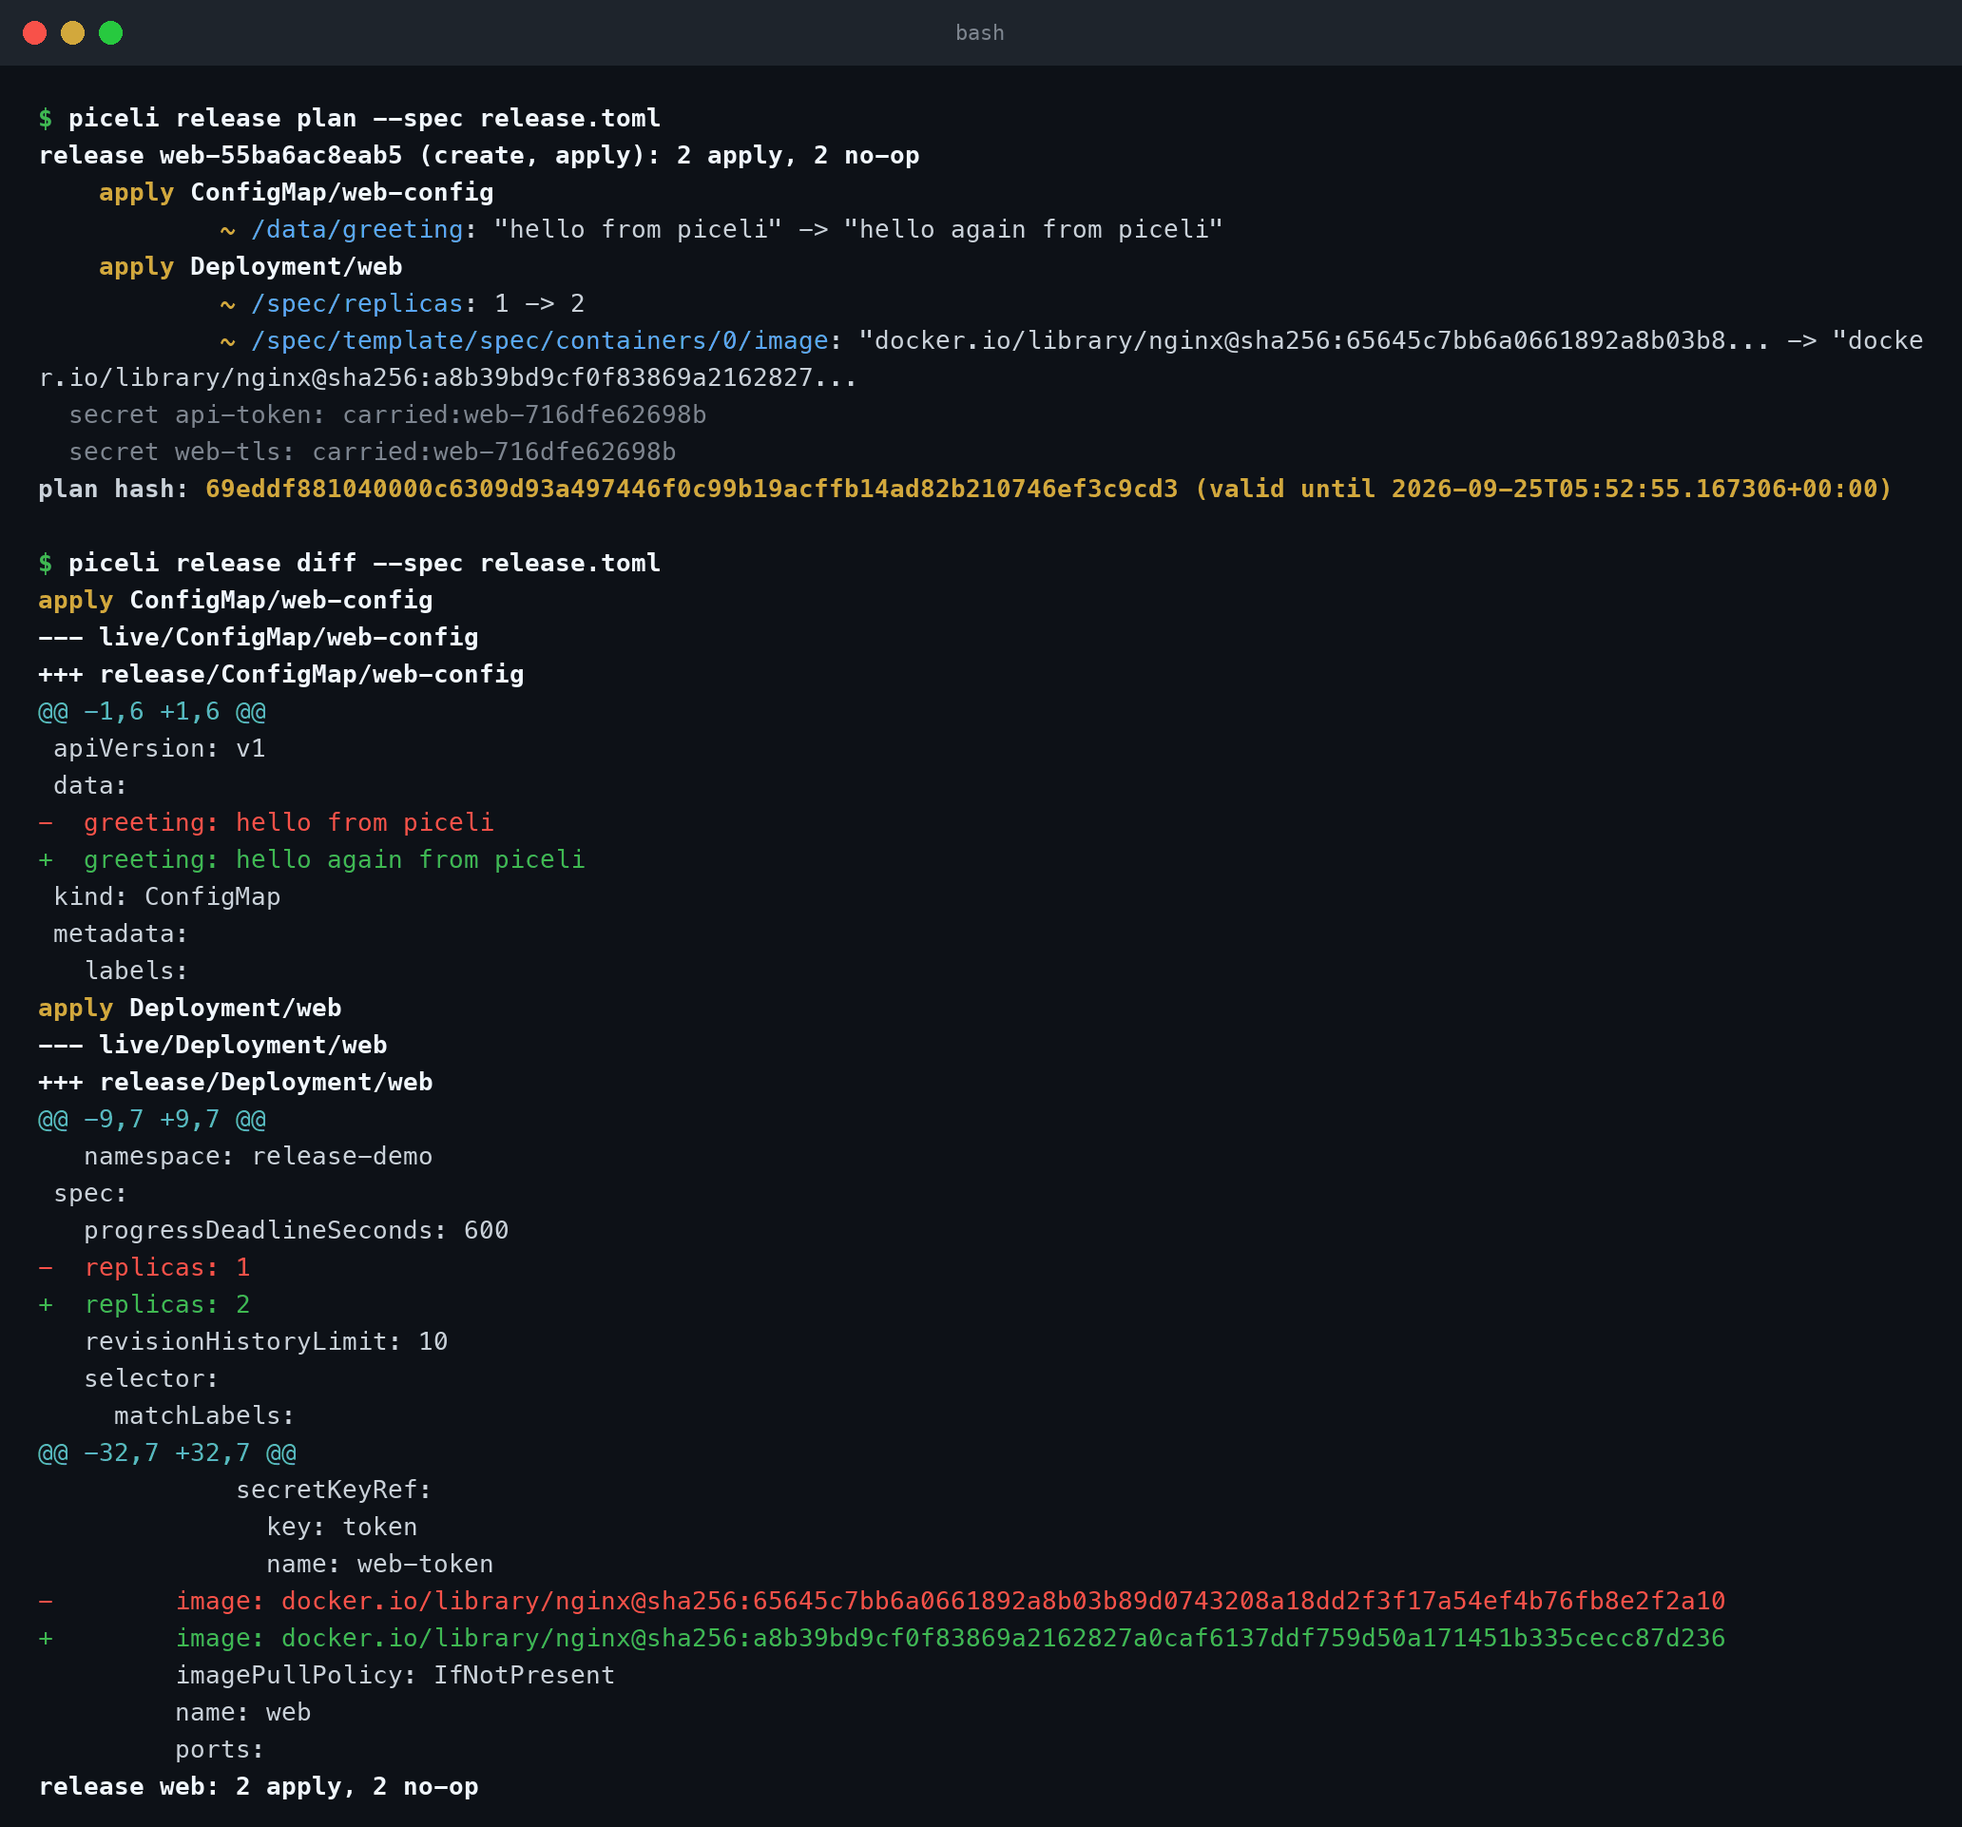
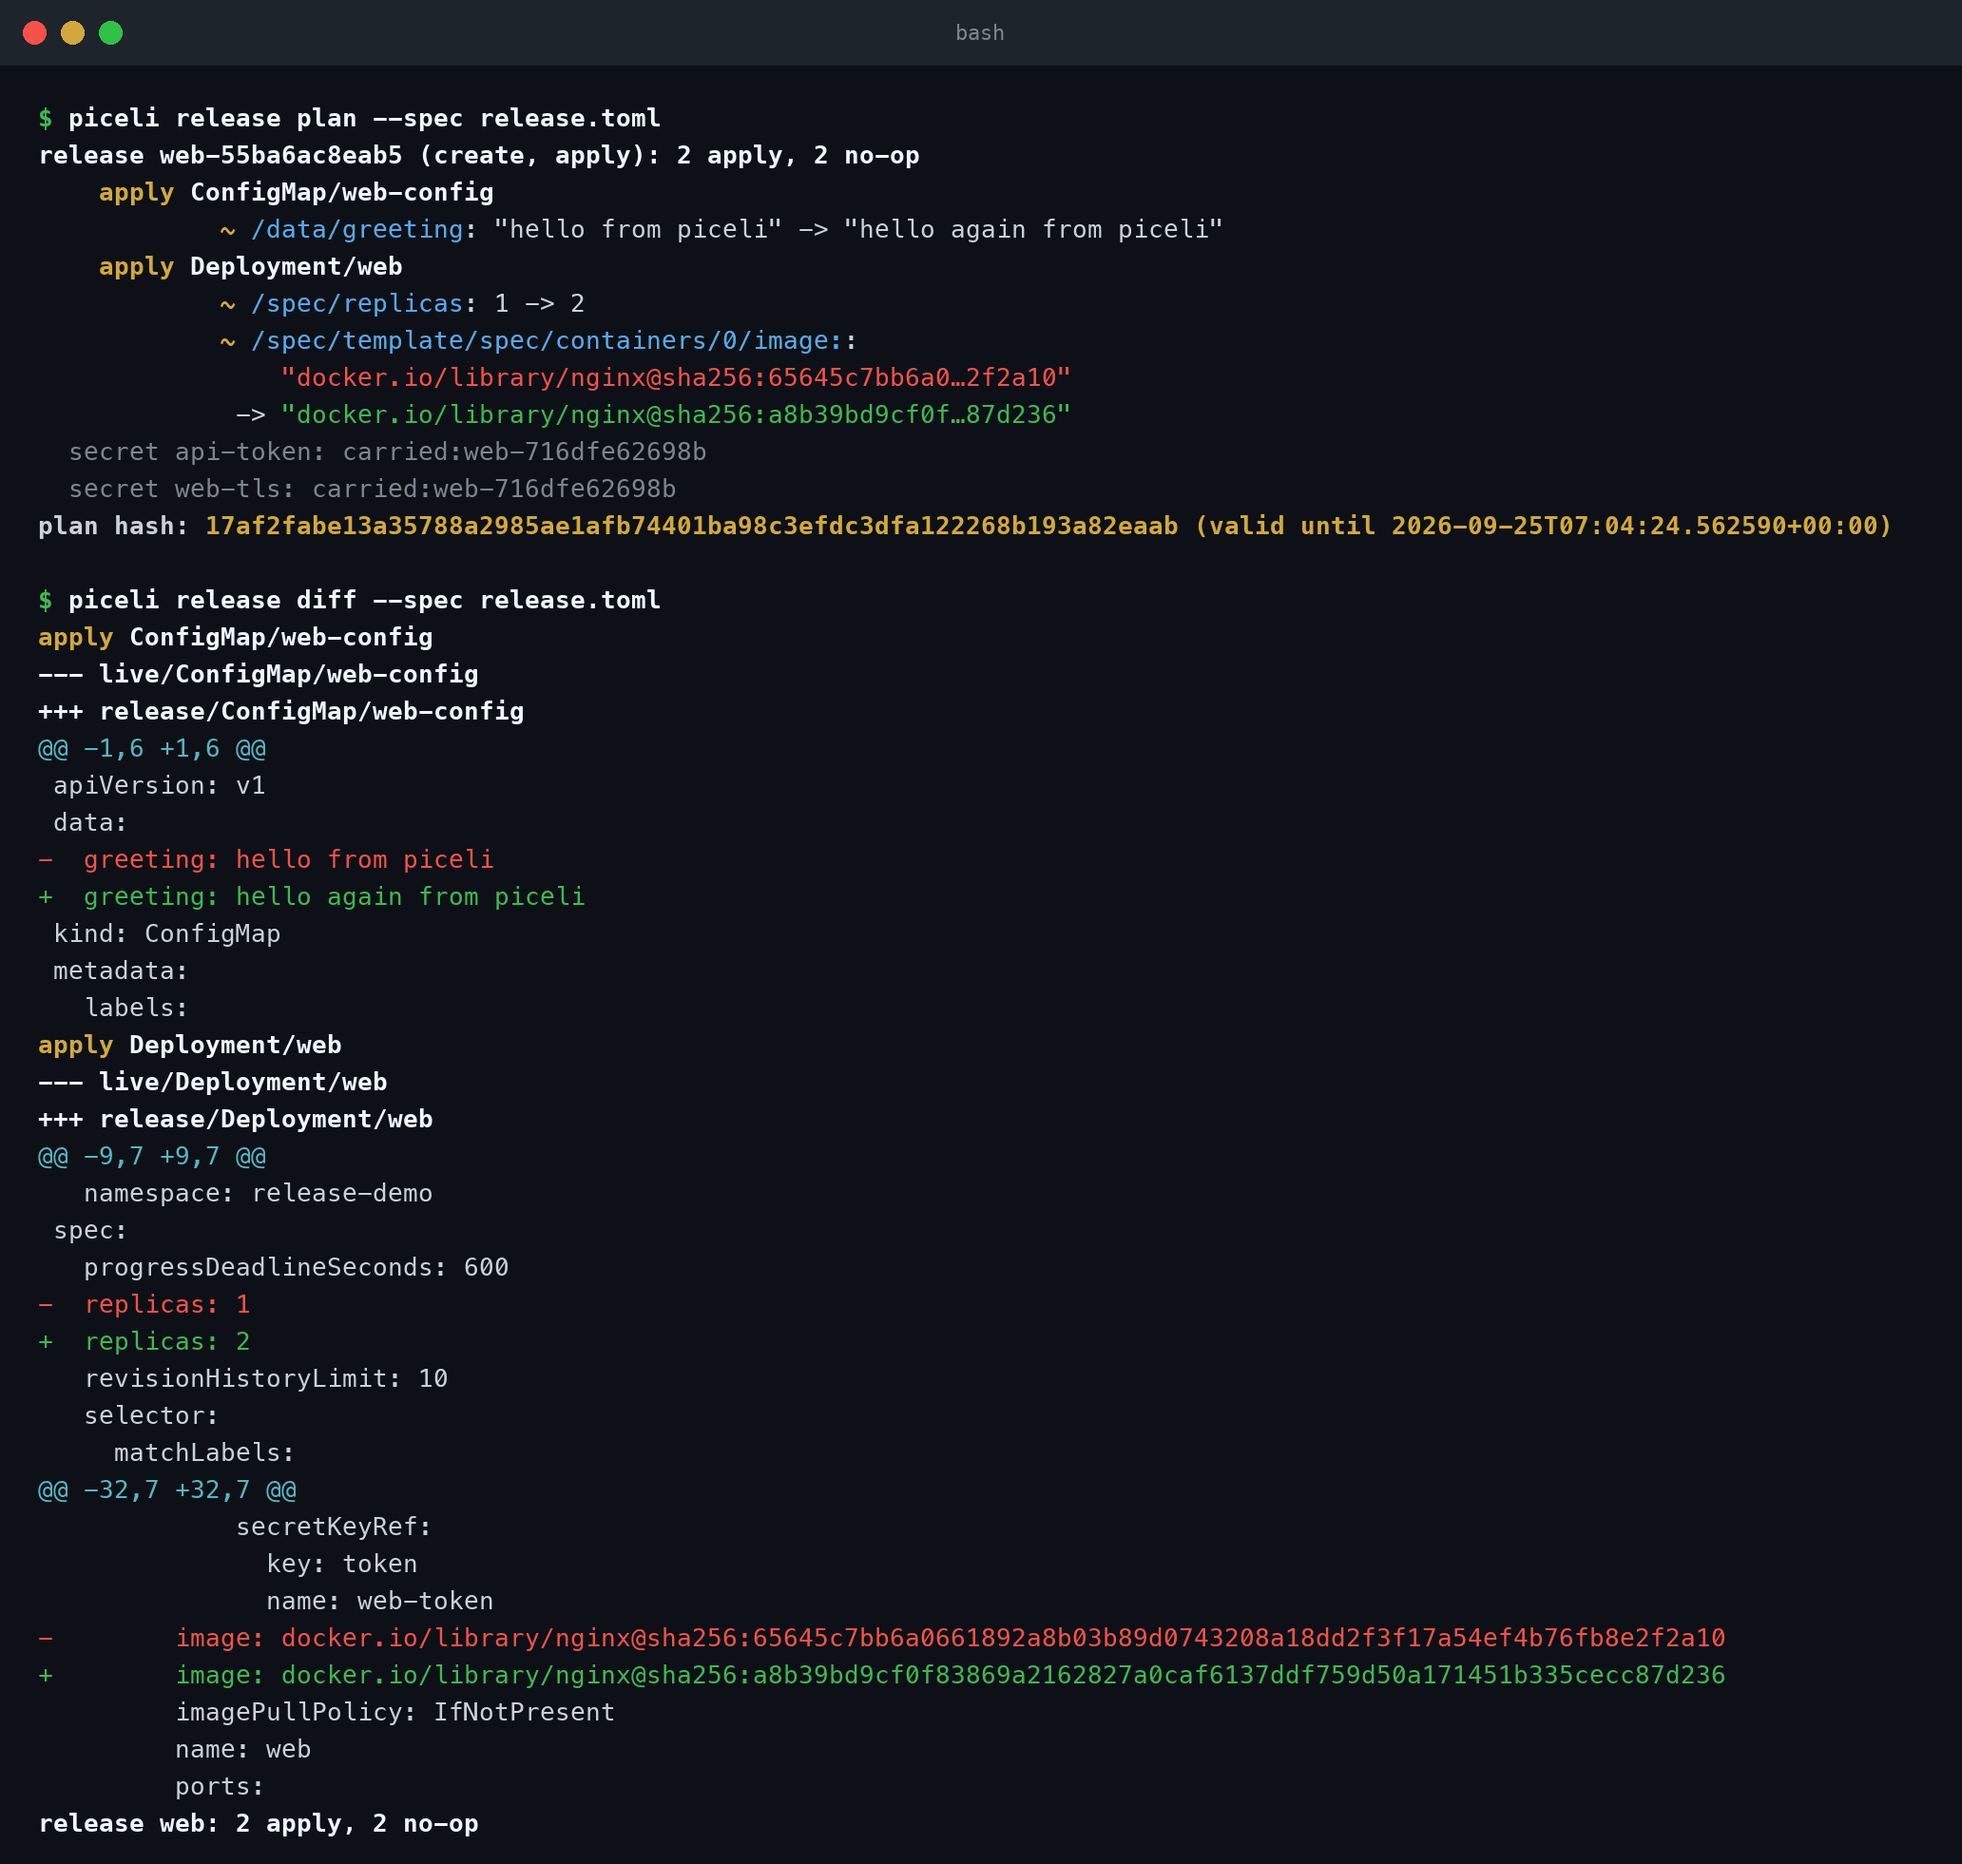
docs: retake screenshots and deploy GIF for 0.4.1
Captured on kind with piceli access --dashboard; alt texts, captions and
expected deploy/status output updated to the current output.

Changed region(s): [[0.0, 0.0624, 0.9612, 0.9677], [0.4341, 0.0624, 0.4651, 0.0937]]

diff --git a/docs/deploy.md b/docs/deploy.md
@@ -15,7 +15,7 @@ release (always with a changelog entry).
 ```
 
 ```{figure} _static/img/deploy-flow.gif
-:alt: A terminal runs piceli deploy on the shop example with --plan and prints the planned stages and a combined hash. It then runs piceli deploy with --approve and that hash, streaming the build, deliver, plan, apply and checks stages until "deploy ready", and finally piceli status reports that shop is up with its three Deployments ready.
+:alt: A terminal runs piceli deploy on the shop example with --plan and prints the planned stages, a combined hash and the approve command. It then runs piceli deploy with --approve and that hash, streaming the build, deliver (with registry progress), plan, apply (with readiness progress) and checks stages until the checks pass and "deploy ready" is printed. Finally piceli status reports that shop is up, its release ready and its three Deployments ready, with both declared forwards still down.
 :width: 100%
 
 Plan, approve, check: `piceli deploy --plan`, `piceli deploy --approve`
@@ -120,20 +120,29 @@ New to Piceli? Start with {doc}`getting_started/index`.
    piceli deploy examples/shop/app.py:pipeline --approve <combined hash>
    ```
 
-   Expected output:
+   Expected output, after the plan summary is printed again (`running` lines
+   and repeated `waiting` lines omitted):
 
    ```text
    [inputs] done
-   [build] rust-hello: building (log: …/.piceli-deploy/builds/rust-hello/build.log)
-   [build] rust-hello: [piceli] 3/3 linux/arm64 smoke:rust-hello: succeeded in 0.324s
+   [build] rust-hello: building (log: examples/shop/.piceli-deploy/builds/rust-hello/build.log)
+   [build] rust-hello: [piceli] 1/3 linux/arm64 files: succeeded in 4.904s
+   [build] rust-hello: [piceli] 2/3 linux/arm64 image:rust-hello: succeeded in 3.613s
+   [build] rust-hello: [piceli] 3/3 linux/arm64 smoke:rust-hello: succeeded in 2.855s
+   [build] rust-hello: [piceli] drift check: 3 staged file(s) unchanged
    [build] done
    [deliver] registry shop-registry-d0c1b1b7947f: applying
+   [deliver] registry: applying 1/3: ConfigMap/registry-config
+   [deliver] registry: waiting for PersistentVolumeClaim/registry-storage to be ready (1s)
+   [deliver] registry: waiting for Deployment/registry to be ready (1s)
    [deliver] rust-hello: pushing to shop/rust-hello
    [deliver] rust-hello: pushed 127.0.0.1:5000/shop/rust-hello@sha256:9b2fbdad…
    [deliver] done
    [plan] release shop-fbcc92695da7 (create): 7 create
    [plan] done
    [apply] shop-fbcc92695da7: applying
+   [apply] shop-fbcc92695da7: applying 1/7: Secret/cache-credentials
+   [apply] shop-fbcc92695da7: waiting for Deployment/cache to be ready (1s)
    [apply] done
    [checks] shop-fbcc92695da7: passed
    [checks] done
@@ -163,6 +172,22 @@ New to Piceli? Start with {doc}`getting_started/index`.
    ```sh
    piceli status examples/shop/app.py:pipeline
    piceli access examples/shop/app.py:pipeline --dashboard 9876
+   ```
+
+   `status` prints (exit code `0`; the forwards are `down` until `access`
+   runs):
+
+   ```text
+   shop is UP  (namespace shop, context kind-shop)
+   release    shop-fbcc92695da7  ready, apply at 2026-09-25T06:46:30+00:00
+   workloads
+     ready        Deployment/api    1/1  api=9b2fbdad15e1
+     ready        Deployment/cache  1/1  cache=a7cee7c8178f
+     ready        Deployment/web    1/1  web=9b2fbdad15e1
+   access     down
+     down      api          http://127.0.0.1:13080/  -> service/api:8080
+     down      web          http://127.0.0.1:13000/  -> service/web:3000
+   Start the forwards with: piceli access examples/shop/app.py:pipeline
    ```
 
 7. **Change the source and deploy again.** Only what changed moves: a new

diff --git a/docs/operations_lens.md b/docs/operations_lens.md
@@ -103,14 +103,14 @@ piceli observe serve --archive ./session.archive.json \
 ```
 
 ```{figure} _static/img/dashboard-overview.webp
-:alt: The Piceli Operator dashboard for the shop namespace. Two forwarding shortcuts, api on 127.0.0.1:13080 and web on 127.0.0.1:13000, are running and healthy. Below, tiles show 7 managed workloads, 10 unmanaged visible objects, 0 unknown or failed, and the active release shop-318322668422, followed by the desired-versus-live table listing api, cache and web as no-op.
+:alt: The Piceli Operator dashboard for the shop namespace. Two forwarding shortcuts, api on 127.0.0.1:13080 and web on 127.0.0.1:13000, are running and healthy. Below, tiles show 13 managed objects, 8 unmanaged visible objects, 0 unknown or failed, and the active release shop-318322668422. The desired-versus-live table lists the Deployments api, cache and web as no-op with shortened image digests, then their ReplicaSets and Pods as derived ("created by Deployment/api" and so on), then the Secret cache-credentials as no-op.
 :width: 100%
 
-The operator dashboard after deploying the shop example ({doc}`deploy`),
-served with `piceli operator serve --access examples/shop/app.py:pipeline`
-and the pipeline's release catalog (`--catalog`, `--state-dir`): the
-model's forwards as one-click shortcuts, the active release, and each
-declared object compared with the cluster.
+The dashboard after deploying the shop example ({doc}`deploy`), served with
+`piceli access examples/shop/app.py:pipeline --dashboard 9876`: the model's
+forwards as one-click shortcuts, the active release, and each declared
+object compared with the cluster (ReplicaSets and Pods of a managed
+Deployment are shown as derived).
 ```
 
 Open `http://127.0.0.1:9876/`. `--user` names whose saved forwards the

diff --git a/docs/plans_and_diffs.md b/docs/plans_and_diffs.md
@@ -152,7 +152,7 @@ evidence and must reproduce the approved hash.
 ## Reading a diff
 
 ```{figure} _static/img/release-plan-diff.png
-:alt: A terminal shows piceli release plan for the example release after three edits. It lists 2 apply and 2 no-op; under apply ConfigMap/web-config the field /data/greeting changes from "hello from piceli" to "hello again from piceli", and under apply Deployment/web /spec/replicas changes from 1 to 2 and the container image digest changes. The secrets are carried over and a plan hash is printed. Below, piceli release diff prints the same changes as unified YAML diffs between the live objects and the release, with server defaults such as revisionHistoryLimit and imagePullPolicy on both sides.
+:alt: A terminal shows piceli release plan for the example release after three edits. It lists 2 apply and 2 no-op; under apply ConfigMap/web-config the field /data/greeting changes from "hello from piceli" to "hello again from piceli", and under apply Deployment/web /spec/replicas changes from 1 to 2 and the container image changes between two shortened nginx digests, shown before and after on separate lines. The secrets are carried over and a plan hash is printed. Below, piceli release diff prints the same changes as unified YAML diffs between the live objects and the release, with server defaults such as revisionHistoryLimit and imagePullPolicy on both sides.
 :width: 100%
 
 `release plan` summarizes the changed fields of each `apply`; `release diff`

diff --git a/docs/access.md b/docs/access.md
@@ -298,7 +298,8 @@ id, and its badges and tiers are kept.
 :alt: The Port Forwards and Shortcuts tab of the local dashboard for the shop namespace. The api shortcut forwards service/api to 127.0.0.1:13080 and the web shortcut forwards service/web to 127.0.0.1:13000; both are running and healthy. The supervised forwards table lists the same two forwards with their local and remote ports, live links, health and process state.
 :width: 100%
 
-The shop example's two declared forwards (`access=app.access.forward(...)`
-on `api` and `web`, see {doc}`deploy`) as dashboard shortcuts, each probed
-and supervised on loopback.
+`piceli access examples/shop/app.py:pipeline --dashboard 9876`: the shop
+example's two declared forwards (`access=app.access.forward(...)` on `api`
+and `web`, see {doc}`deploy`) as dashboard shortcuts, each probed and
+supervised on loopback.
 ```
